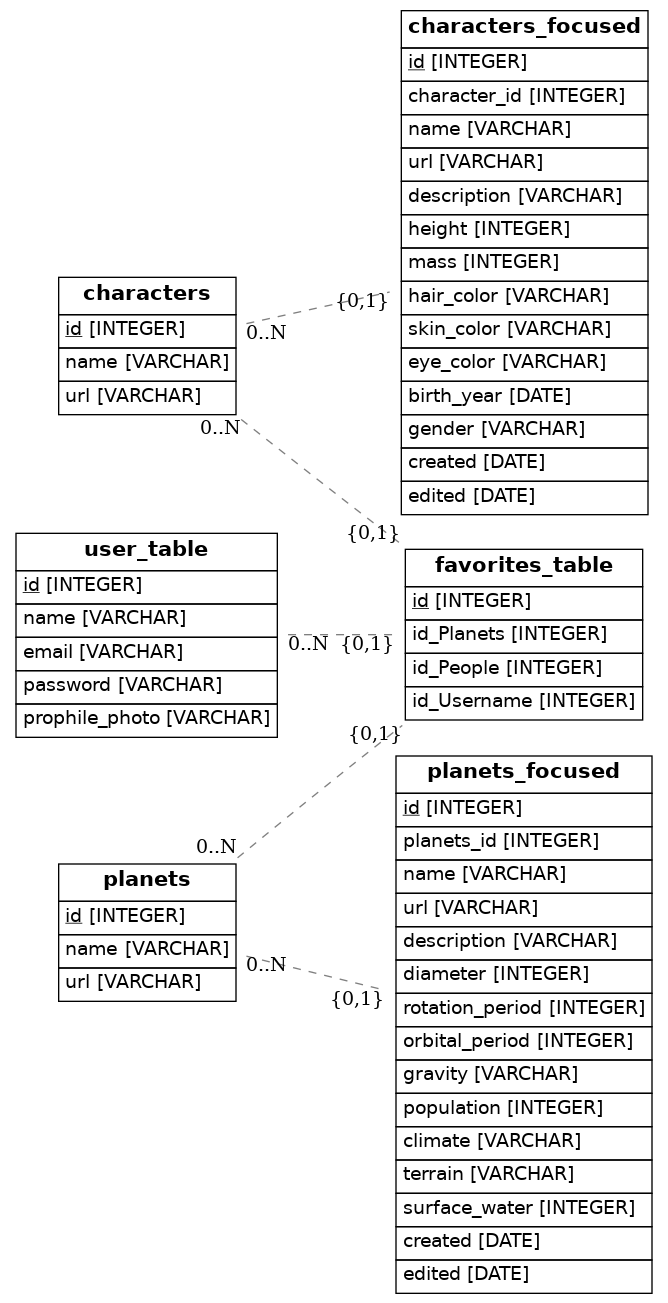
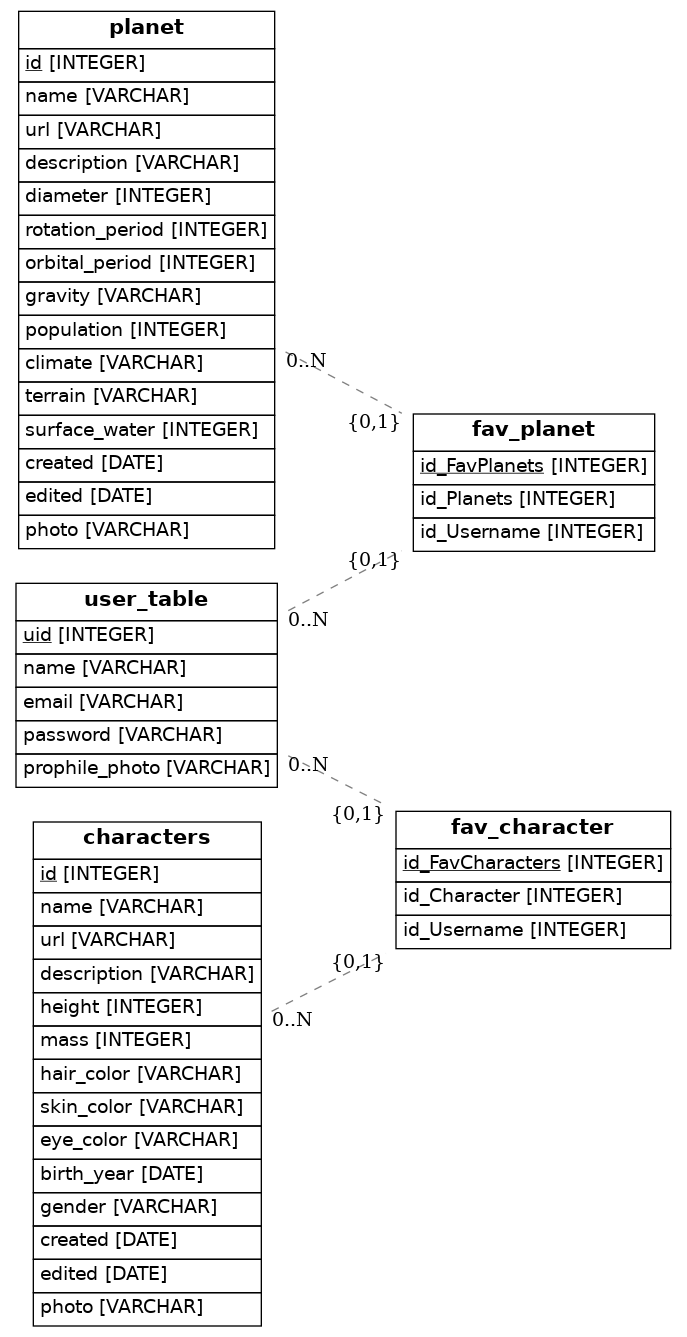
corregido y diagrama

diff --git a/src/models.py b/src/models.py
@@ -9,23 +9,23 @@ from eralchemy import render_er
 Base = declarative_base()
 
 # Tabla PLANETAS
-class Planet(db.Model):
+class Planet(Base):
     __tablename__ = "planet"
-    id = db.Column(db.Integer, primary_key=True)
-    name = db.Column(db.String, nullable=False)
-    url = db.Column(db.String, nullable=False)
-    description = db.Column(db.String)
-    diameter = db.Column(db.Integer)
-    rotation_period = db.Column(db.Integer)
-    orbital_period = db.Column(db.Integer)
-    gravity = db.Column(db.String)
-    population = db.Column(db.Integer)
-    climate = db.Column(db.String)
-    terrain = db.Column(db.String)
-    surface_water = db.Column(db.Integer)
-    created = db.Column(db.Date)
-    edited = db.Column(db.Date)
-    photo = db.Column(db.String)
+    id = Column(Integer, primary_key=True)
+    name = Column(String, nullable=False)
+    url = Column(String, nullable=False)
+    description = Column(String)
+    diameter = Column(Integer)
+    rotation_period = Column(Integer)
+    orbital_period = Column(Integer)
+    gravity = Column(String)
+    population = Column(Integer)
+    climate = Column(String)
+    terrain = Column(String)
+    surface_water = Column(Integer)
+    created = Column(Date)
+    edited = Column(Date)
+    photo = Column(String)
     liked_by_users = relationship("Fav_Planet", backref="planet")
 
     def serialize(self):
@@ -48,22 +48,22 @@ class Planet(db.Model):
         }
 
 #Tabla PERSONAJES
-class Characters(db.Model):
+class Characters(Base):
     __tablename__ = "characters"
-    id = db.Column(db.Integer, primary_key=True)
-    name = db.Column(db.String, nullable=False)
-    url = db.Column(db.String, nullable=False)
-    description = db.Column(db.String)
-    height = db.Column(db.Integer)
-    mass = db.Column(db.Integer)
-    hair_color = db.Column(db.String)
-    skin_color = db.Column(db.String)
-    eye_color = db.Column(db.String)
-    birth_year = db.Column(db.Date)
-    gender = db.Column(db.String)
-    created = db.Column(db.Date)
-    edited = db.Column(db.Date)
-    photo = db.Column(db.String)
+    id = Column(Integer, primary_key=True)
+    name = Column(String, nullable=False)
+    url = Column(String, nullable=False)
+    description = Column(String)
+    height = Column(Integer)
+    mass = Column(Integer)
+    hair_color = Column(String)
+    skin_color = Column(String)
+    eye_color = Column(String)
+    birth_year = Column(Date)
+    gender = Column(String)
+    created = Column(Date)
+    edited = Column(Date)
+    photo = Column(String)
     liked_by_users = relationship("Fav_Characters", backref="characters")
 
     def serialize(self):
@@ -85,11 +85,11 @@ class Characters(db.Model):
         }
 
 #Tabla FAVORITOS PLANETAS
-class Fav_Planet(db.Model):
+class Fav_Planet(Base):
     __tablename__ = "fav_planet"
-    id_FavPlanets = db.Column(db.Integer, primary_key=True)
-    id_Planets = db.Column(db.Integer, ForeignKey("planet.id"))
-    id_Username = db.Column(db.Integer, ForeignKey("user_table.uid"))
+    id_FavPlanets = Column(Integer, primary_key=True)
+    id_Planets = Column(Integer, ForeignKey("planet.id"))
+    id_Username = Column(Integer, ForeignKey("user_table.uid"))
 
     def serialize(self):
         return {
@@ -99,11 +99,11 @@ class Fav_Planet(db.Model):
         }
 
 #Tabla FAVORITOS PERSONAJES
-class Fav_Character(db.Model):
+class Fav_Character(Base):
     __tablename__ = "fav_character"
-    id_FavCharacters = db.Column(db.Integer, primary_key=True)
-    id_Character = db.Column(db.Integer, ForeignKey("characters.id"))
-    id_Username = db.Column(db.Integer, ForeignKey("user_table.uid"))
+    id_FavCharacters = Column(Integer, primary_key=True)
+    id_Character = Column(Integer, ForeignKey("characters.id"))
+    id_Username = Column(Integer, ForeignKey("user_table.uid"))
 
     def serialize(self):
         return {
@@ -113,13 +113,13 @@ class Fav_Character(db.Model):
         }
 
 # Tabla USUARIOS
-class User(db.Model):
+class User(Base):
     __tablename__ = "user_table"
-    uid = db.Column(db.Integer, primary_key=True)
-    name = db.Column(db.String, nullable=False)
-    email = db.Column(db.String, unique=True, nullable=False)
-    password = db.Column(db.String, nullable=False)
-    prophile_photo = db.Column(db.String)
+    uid = Column(Integer, primary_key=True)
+    name = Column(String, nullable=False)
+    email = Column(String, unique=True, nullable=False)
+    password = Column(String, nullable=False)
+    prophile_photo = Column(String)
     favorite_planet = relationship("Fav_Planet", backref="user")
     favorite_character = relationship("Fav_Planet", backref="user")
 
